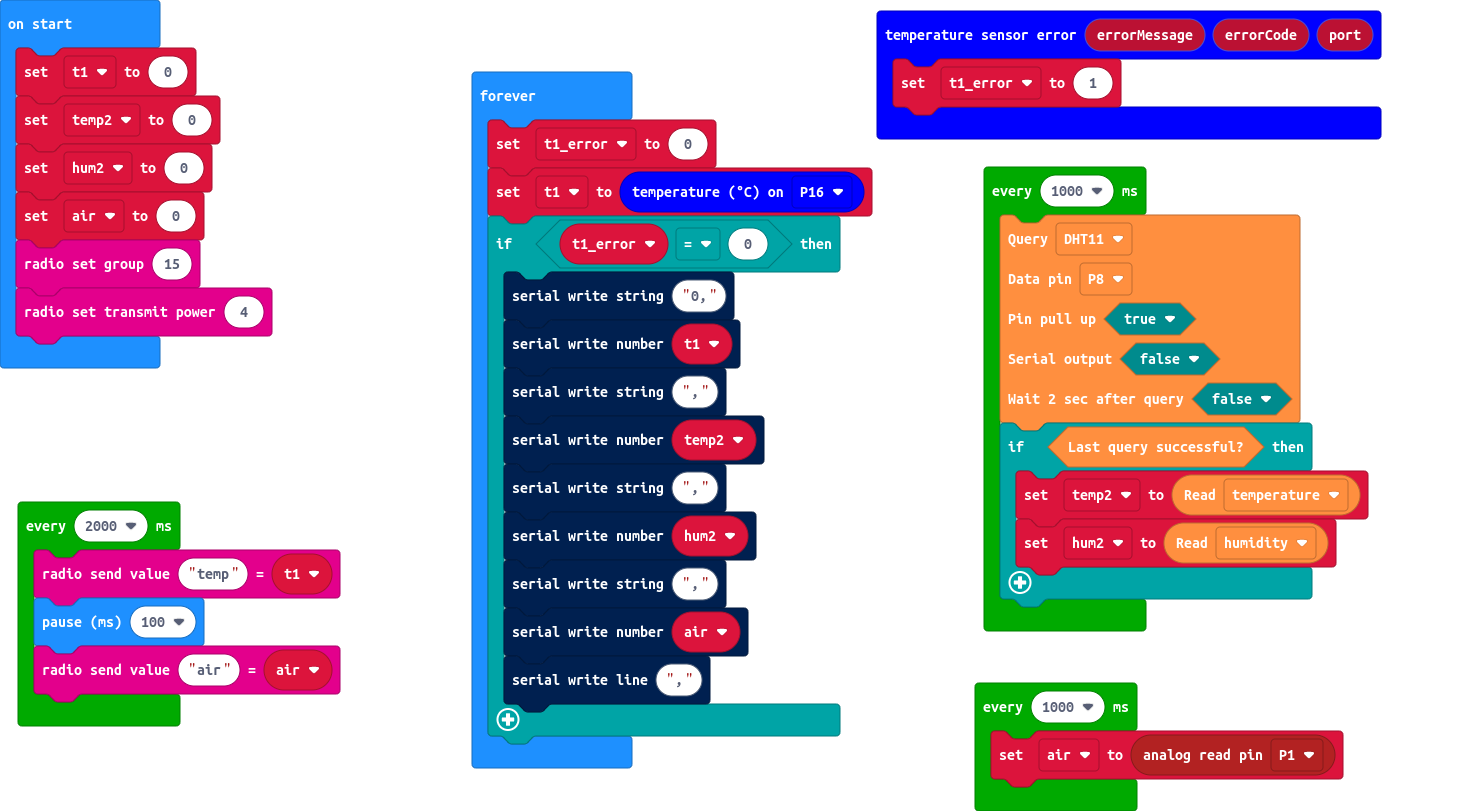
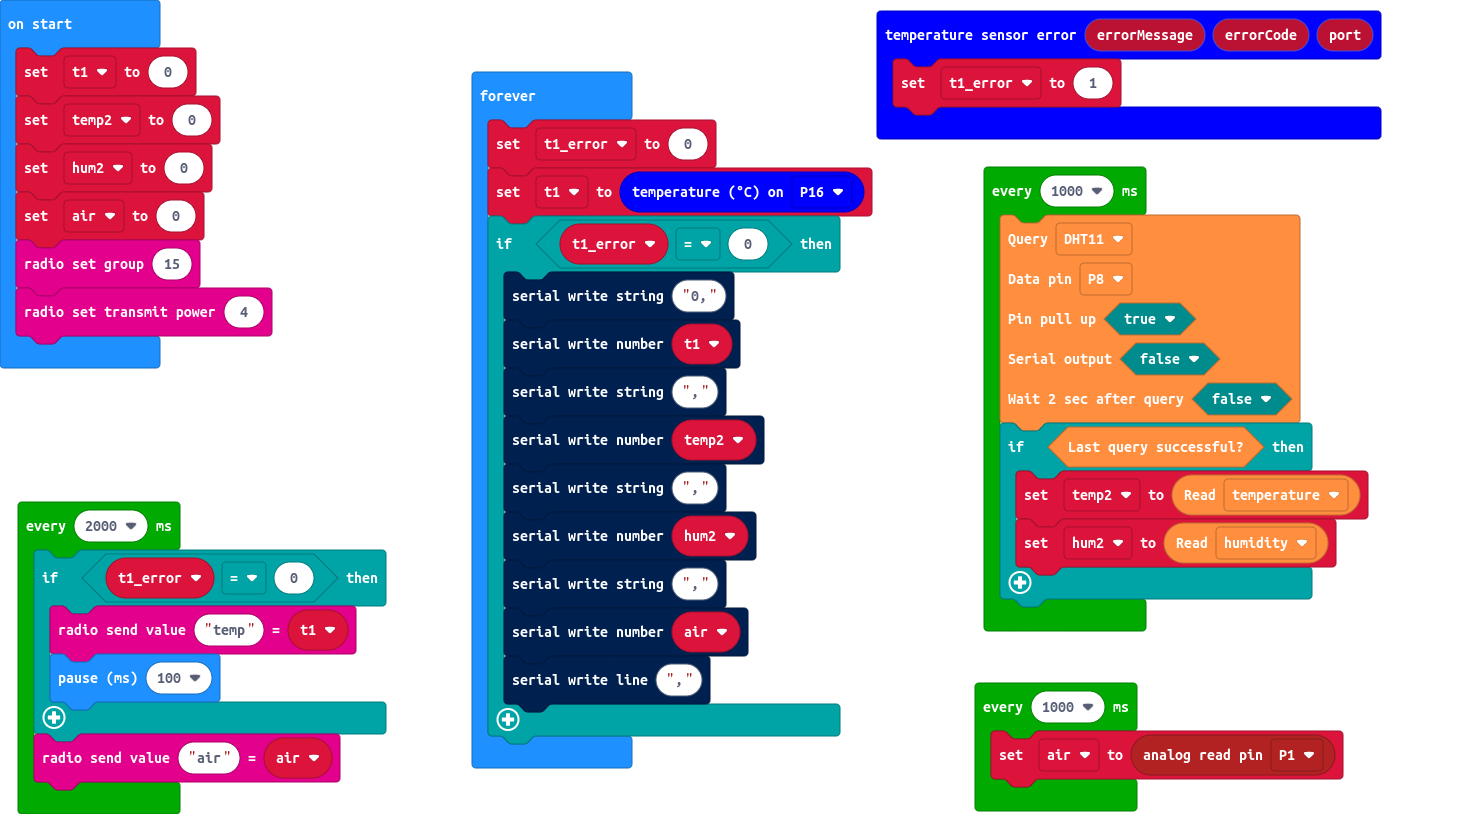
RF t1 var fix

diff --git a/main.ts b/main.ts
@@ -25,8 +25,10 @@ loops.everyInterval(1000, function () {
     air = pins.analogReadPin(AnalogPin.P1)
 })
 loops.everyInterval(2000, function () {
-    radio.sendValue("temp", t1)
-    basic.pause(100)
+    if (t1_error == 0) {
+        radio.sendValue("temp", t1)
+        basic.pause(100)
+    }
     radio.sendValue("air", air)
 })
 basic.forever(function () {
